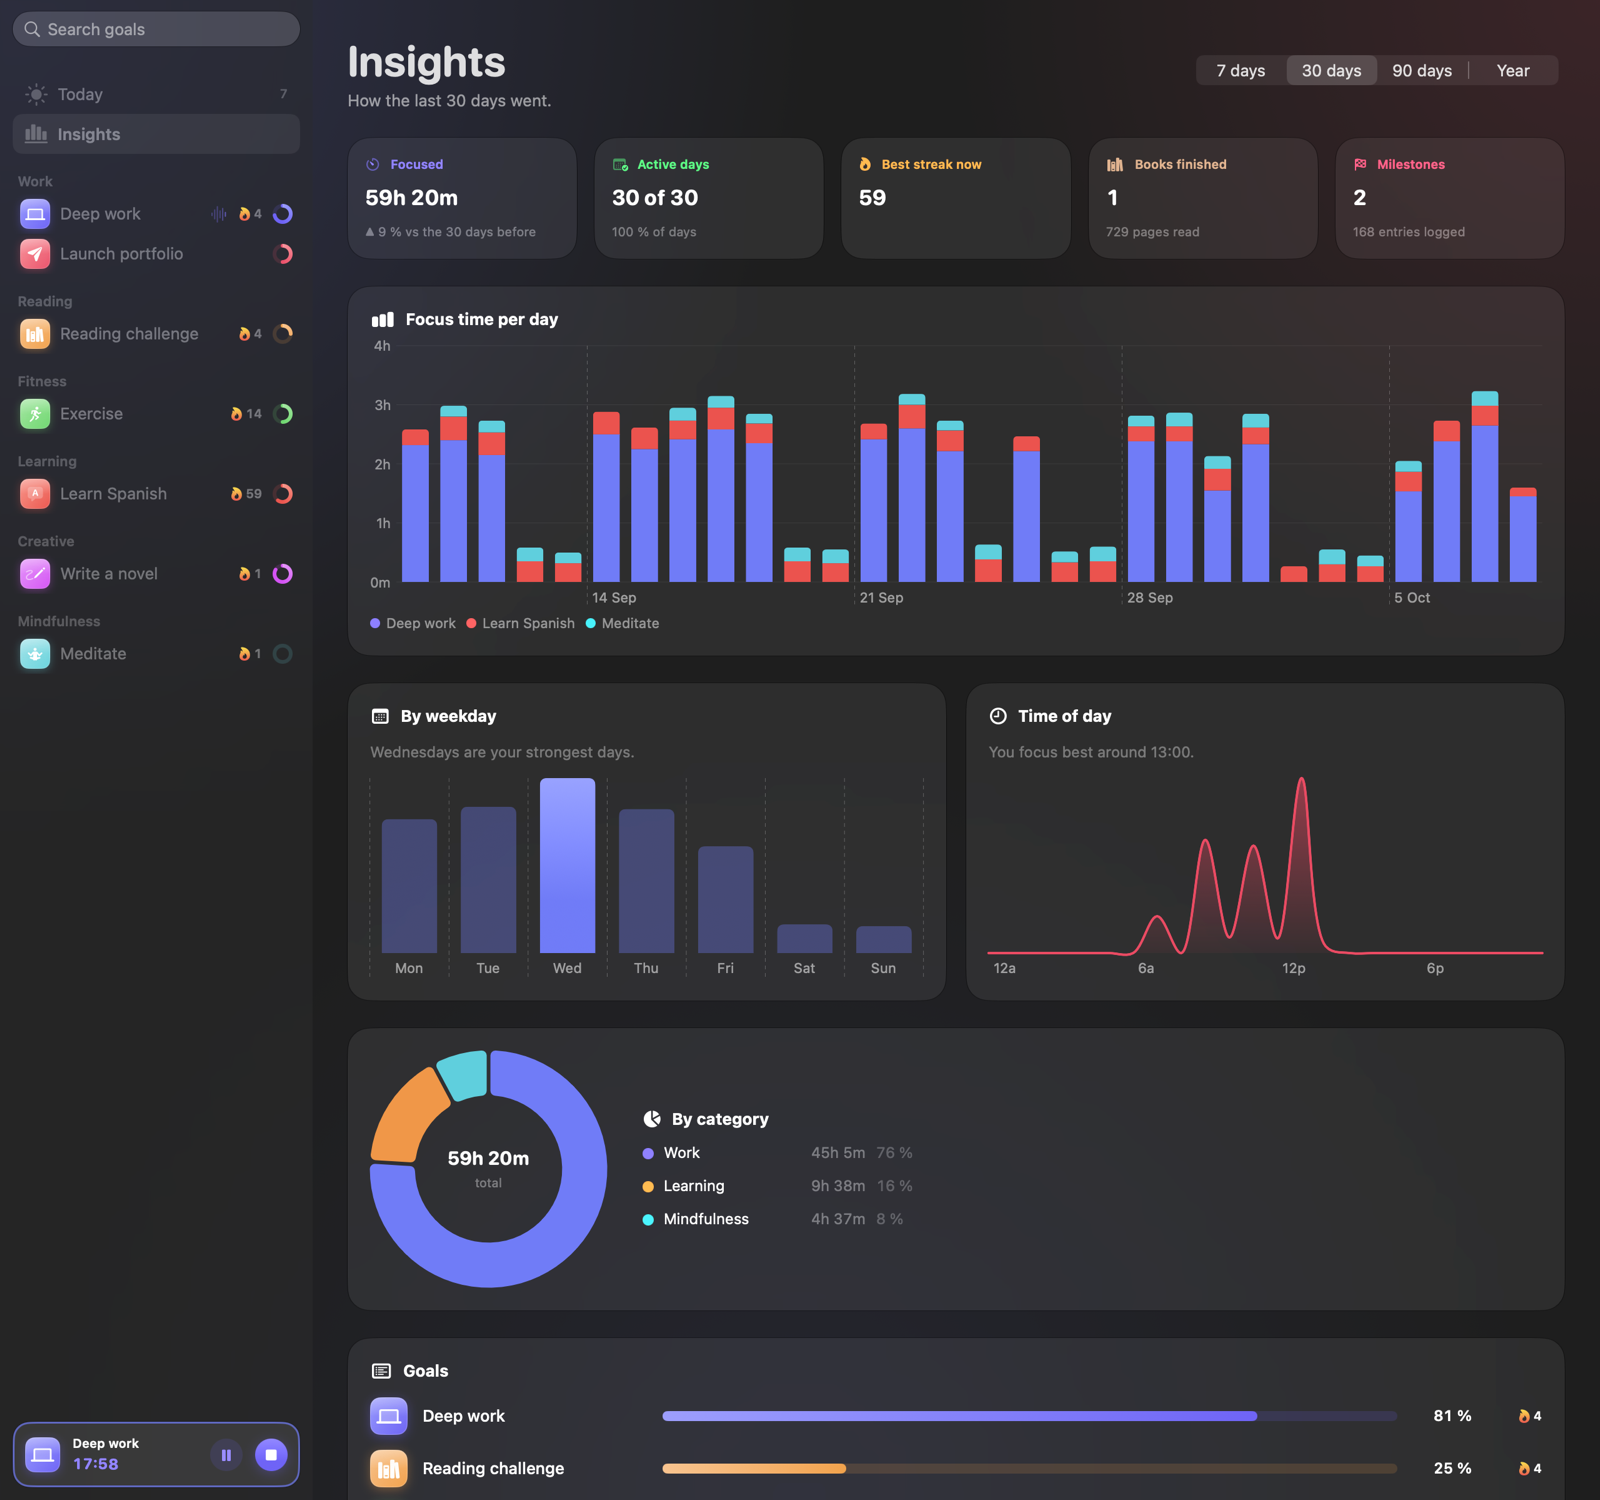
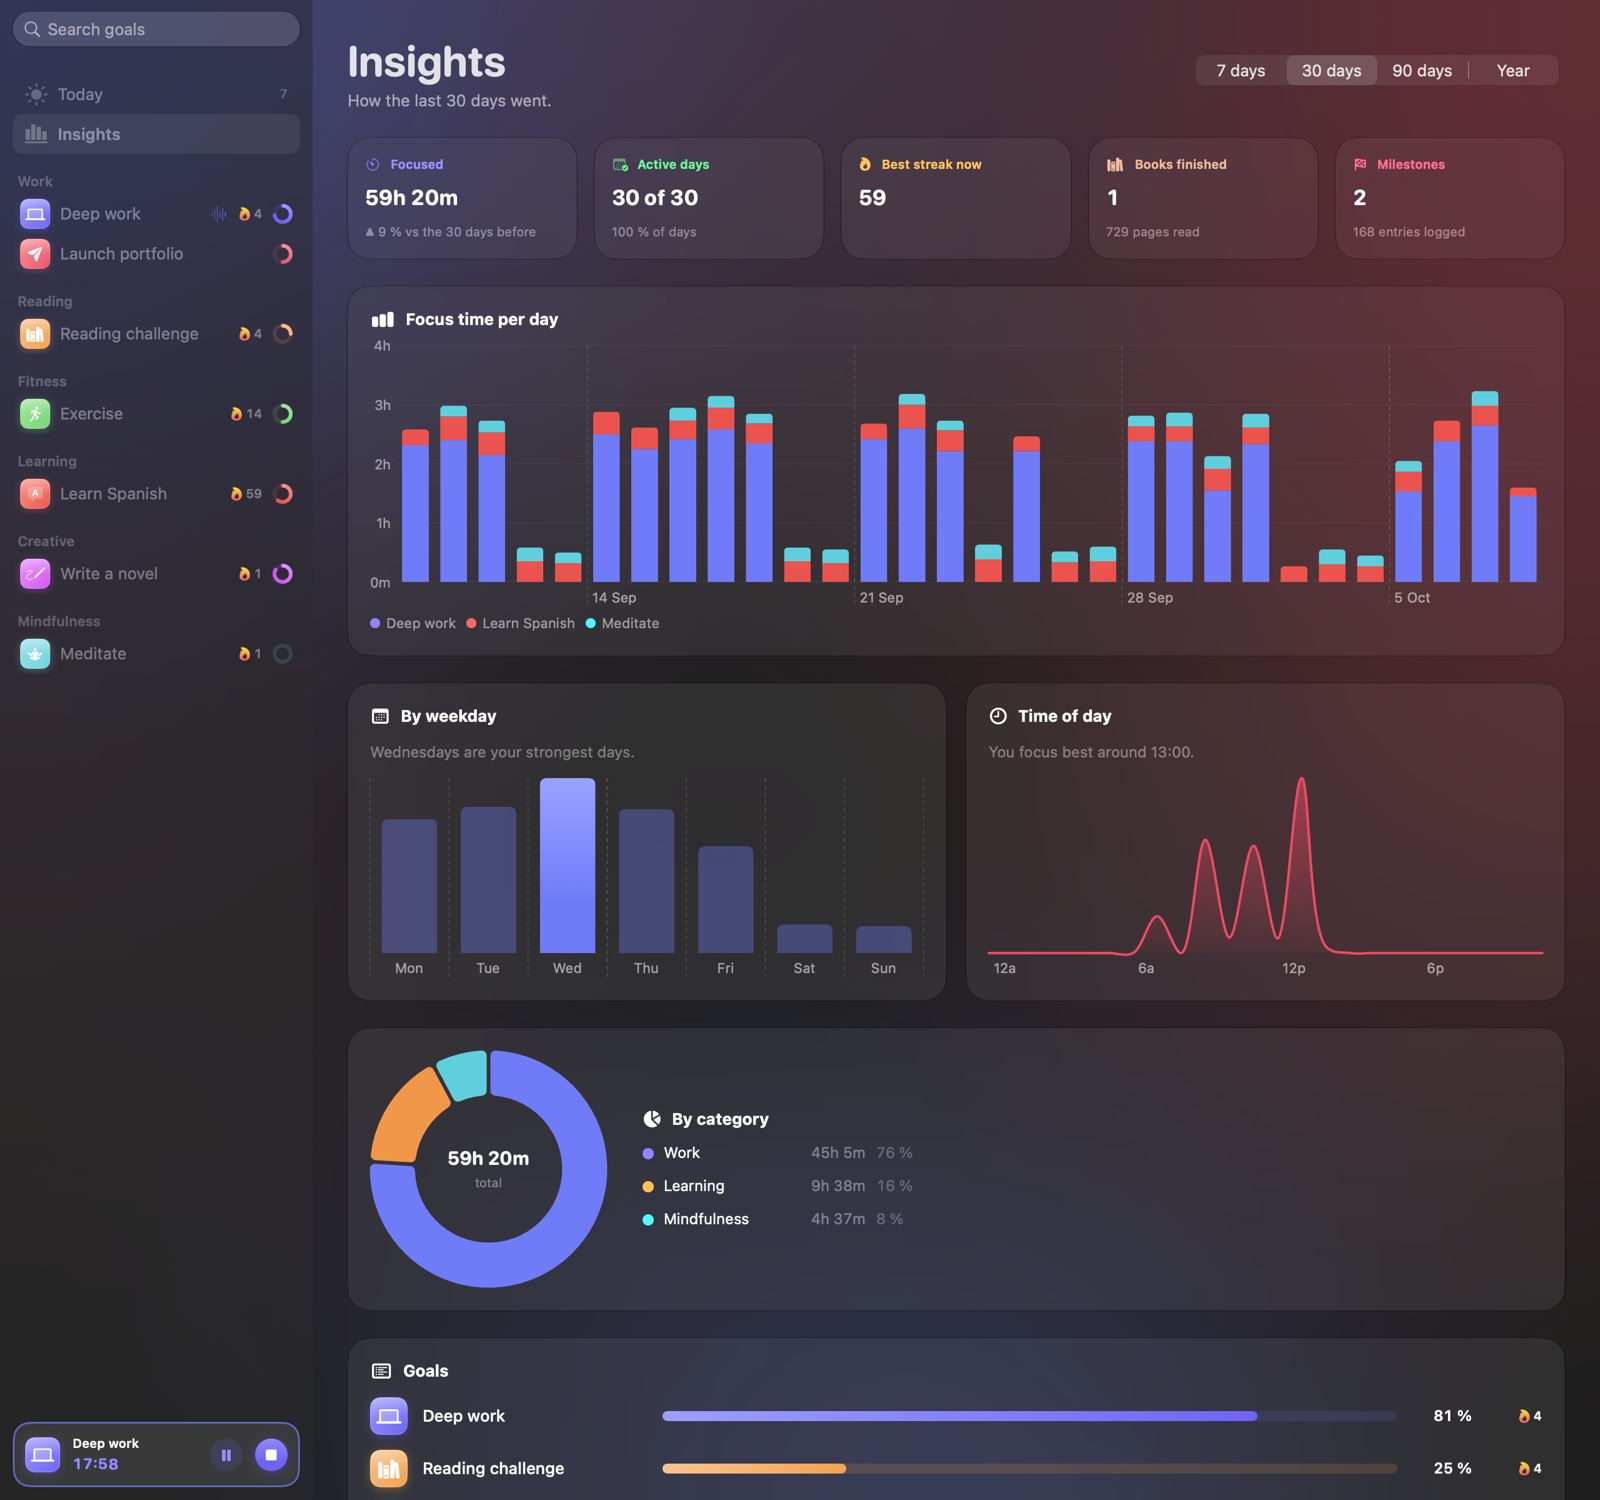
Render screenshots from an active window, and refresh them

Changed region(s): [[0.0938, 0.0, 1.0, 0.7053], [0.5312, 0.92, 0.7188, 1.0], [0.5312, 0.8587, 0.625, 0.8893]]

diff --git a/scripts/screenshots/Harness.swift b/scripts/screenshots/Harness.swift
@@ -7,7 +7,7 @@ import WidgetKit
 
 nonisolated(unsafe) var output = URL(fileURLWithPath: CommandLine.arguments[1])
 let app = NSApplication.shared
-app.setActivationPolicy(.accessory)
+app.setActivationPolicy(.regular)
 // Screenshots show a returning user: no first-run tip. Registered defaults stay in memory.
 UserDefaults.standard.register(defaults: ["dismissedWidgetTip": true])
 
@@ -33,15 +33,22 @@ let windowImage: WindowImageFunction = {
     return unsafeBitCast(dlsym(handle, "CGWindowListCreateImage"), to: WindowImageFunction.self)
 }()
 
+/// A borderless window that can become key, so controls and glass render in their active state.
+final class KeyWindow: NSWindow {
+    override var canBecomeKey: Bool { true }
+    override var canBecomeMain: Bool { true }
+}
+
 @MainActor
 func snapshot<V: View>(_ view: V, size: CGSize, dark: Bool, name: String) {
-    let window = NSWindow(contentRect: CGRect(origin: CGPoint(x: -20_000, y: -20_000), size: size), styleMask: [.borderless], backing: .buffered, defer: false)
+    let window = KeyWindow(contentRect: CGRect(origin: CGPoint(x: -20_000, y: -20_000), size: size), styleMask: [.borderless], backing: .buffered, defer: false)
     window.appearance = NSAppearance(named: dark ? .darkAqua : .aqua)
     window.backgroundColor = .windowBackgroundColor
     let host = NSHostingView(rootView: view.frame(width: size.width, height: size.height))
     host.frame = CGRect(origin: .zero, size: size)
     window.contentView = host
-    window.orderFrontRegardless()
+    window.makeKeyAndOrderFront(nil)
+    NSApp.activate(ignoringOtherApps: true)
     // Let layout, images and tasks settle.
     RunLoop.main.run(until: Date().addingTimeInterval(1.5))
     // kCGWindowListOptionIncludingWindow = 1 << 3; kCGWindowImageBoundsIgnoreFraming | BestResolution.
